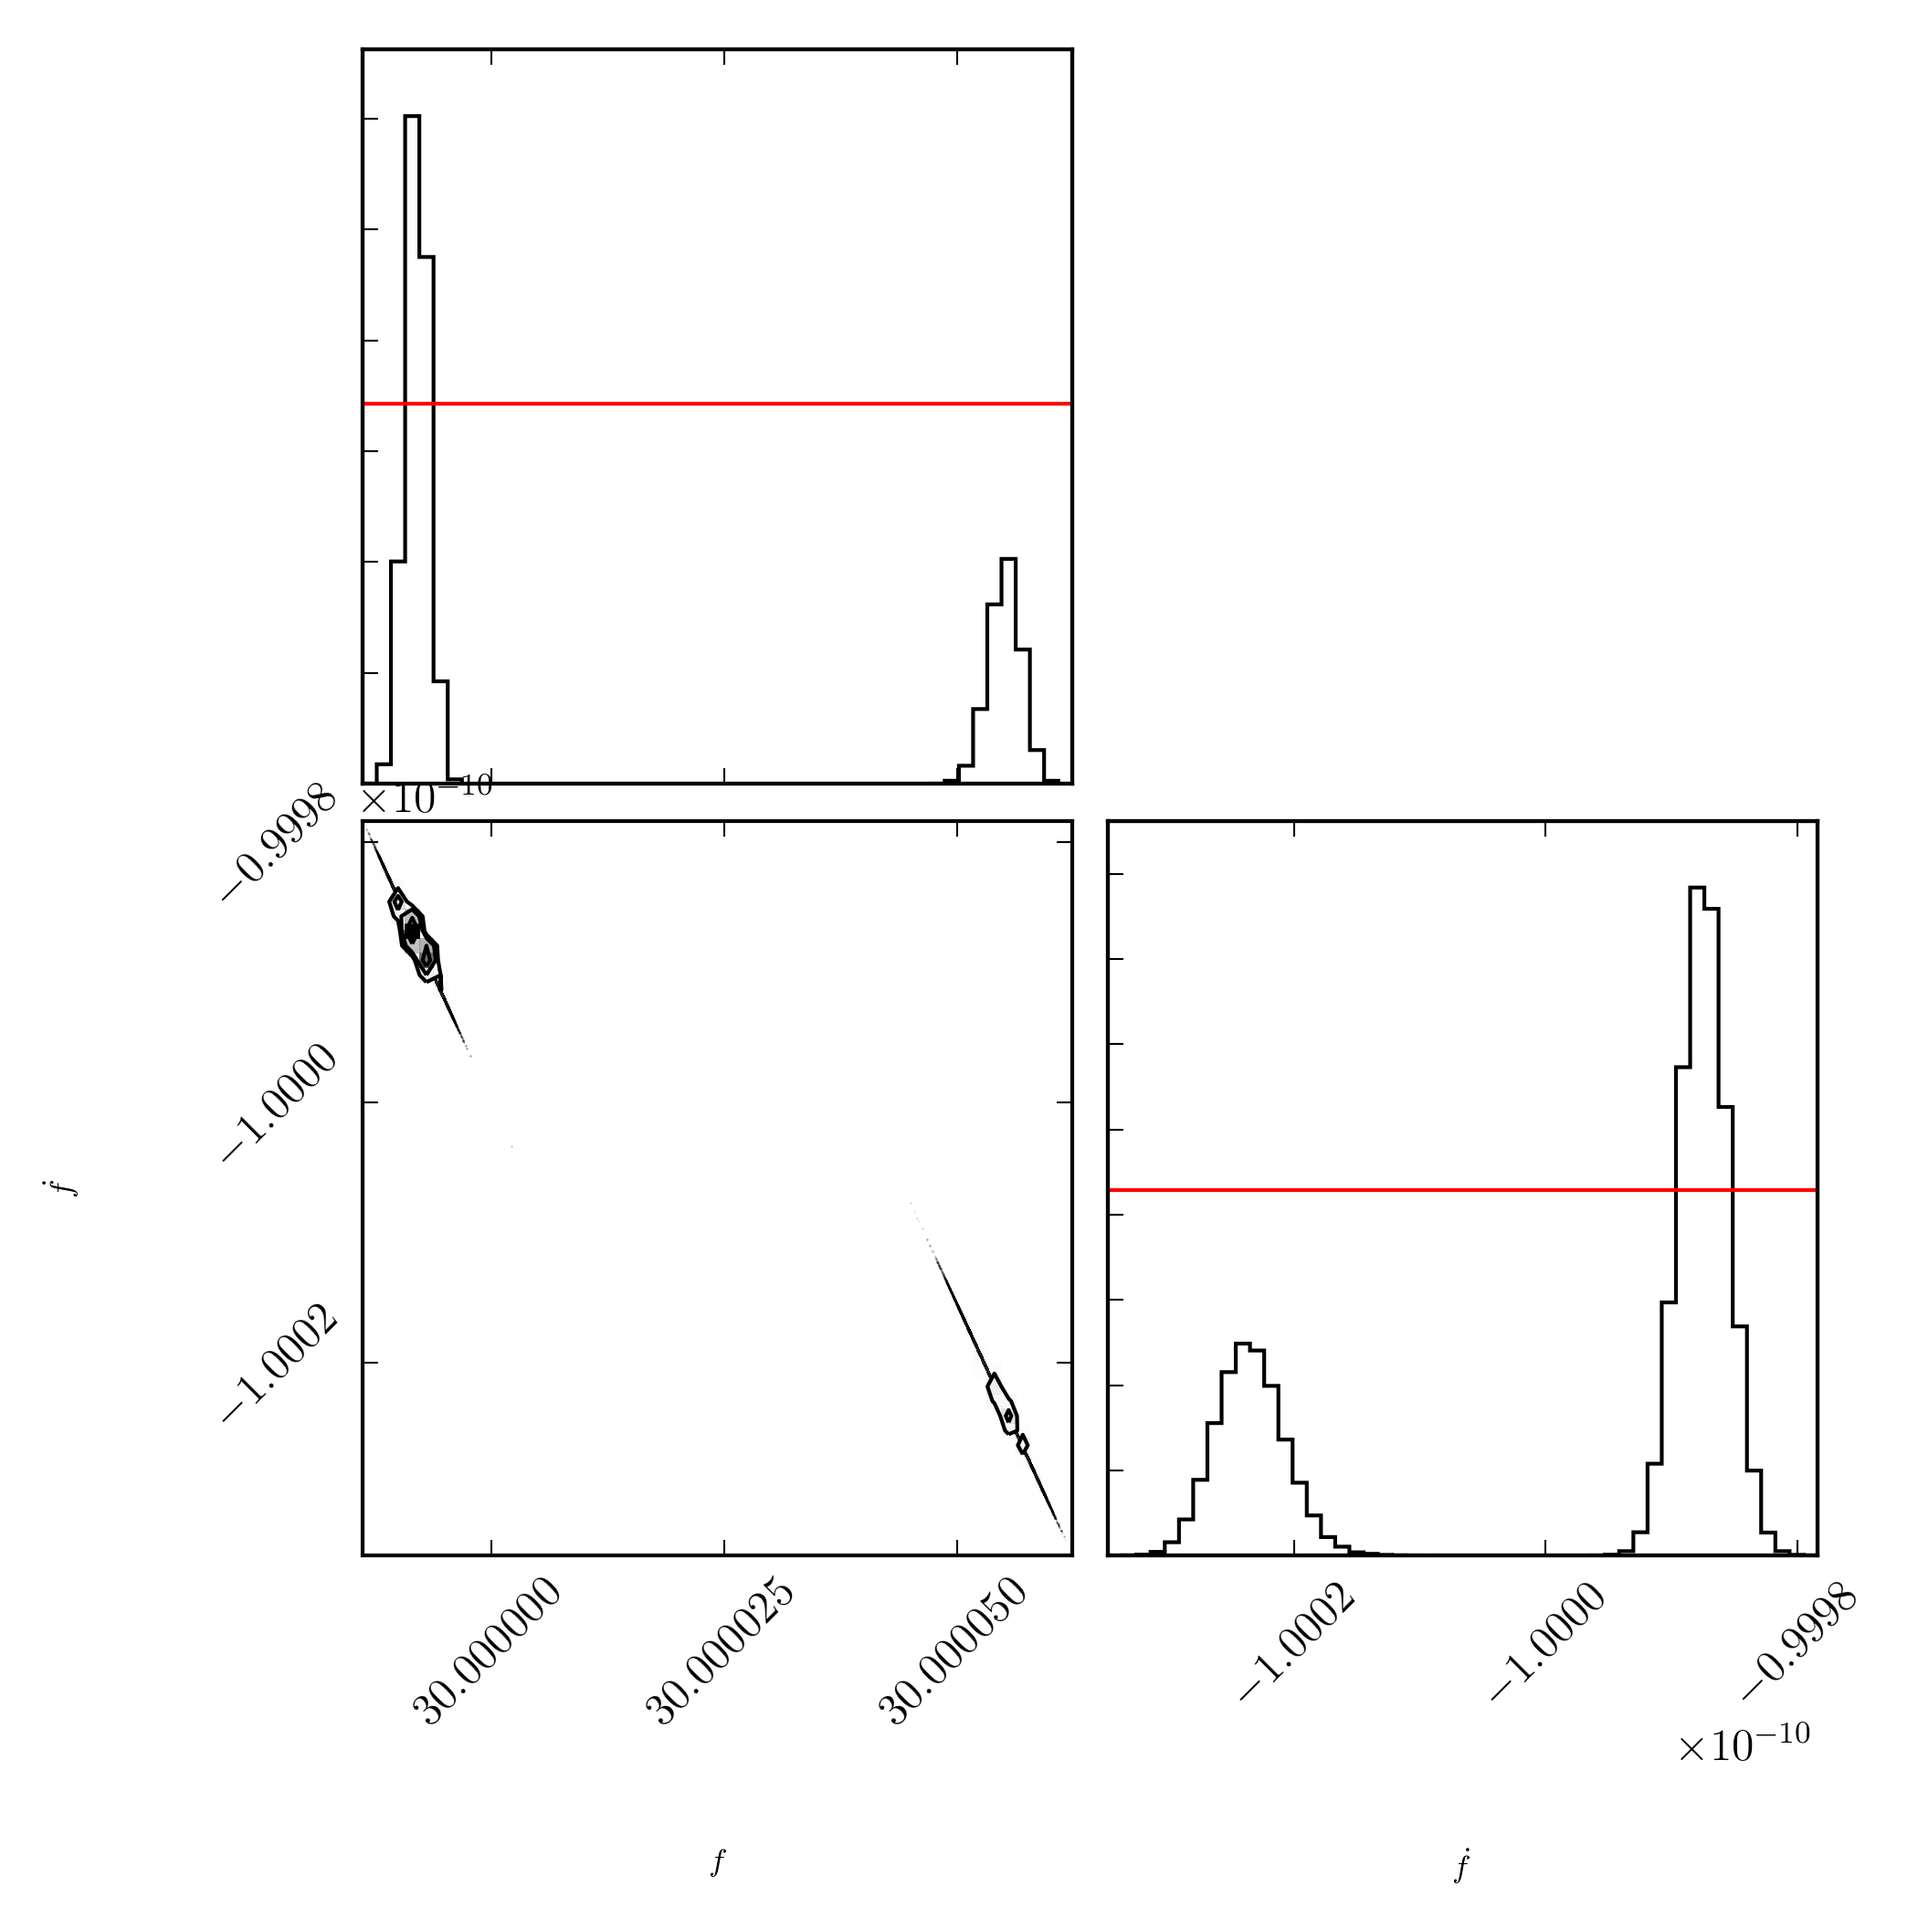
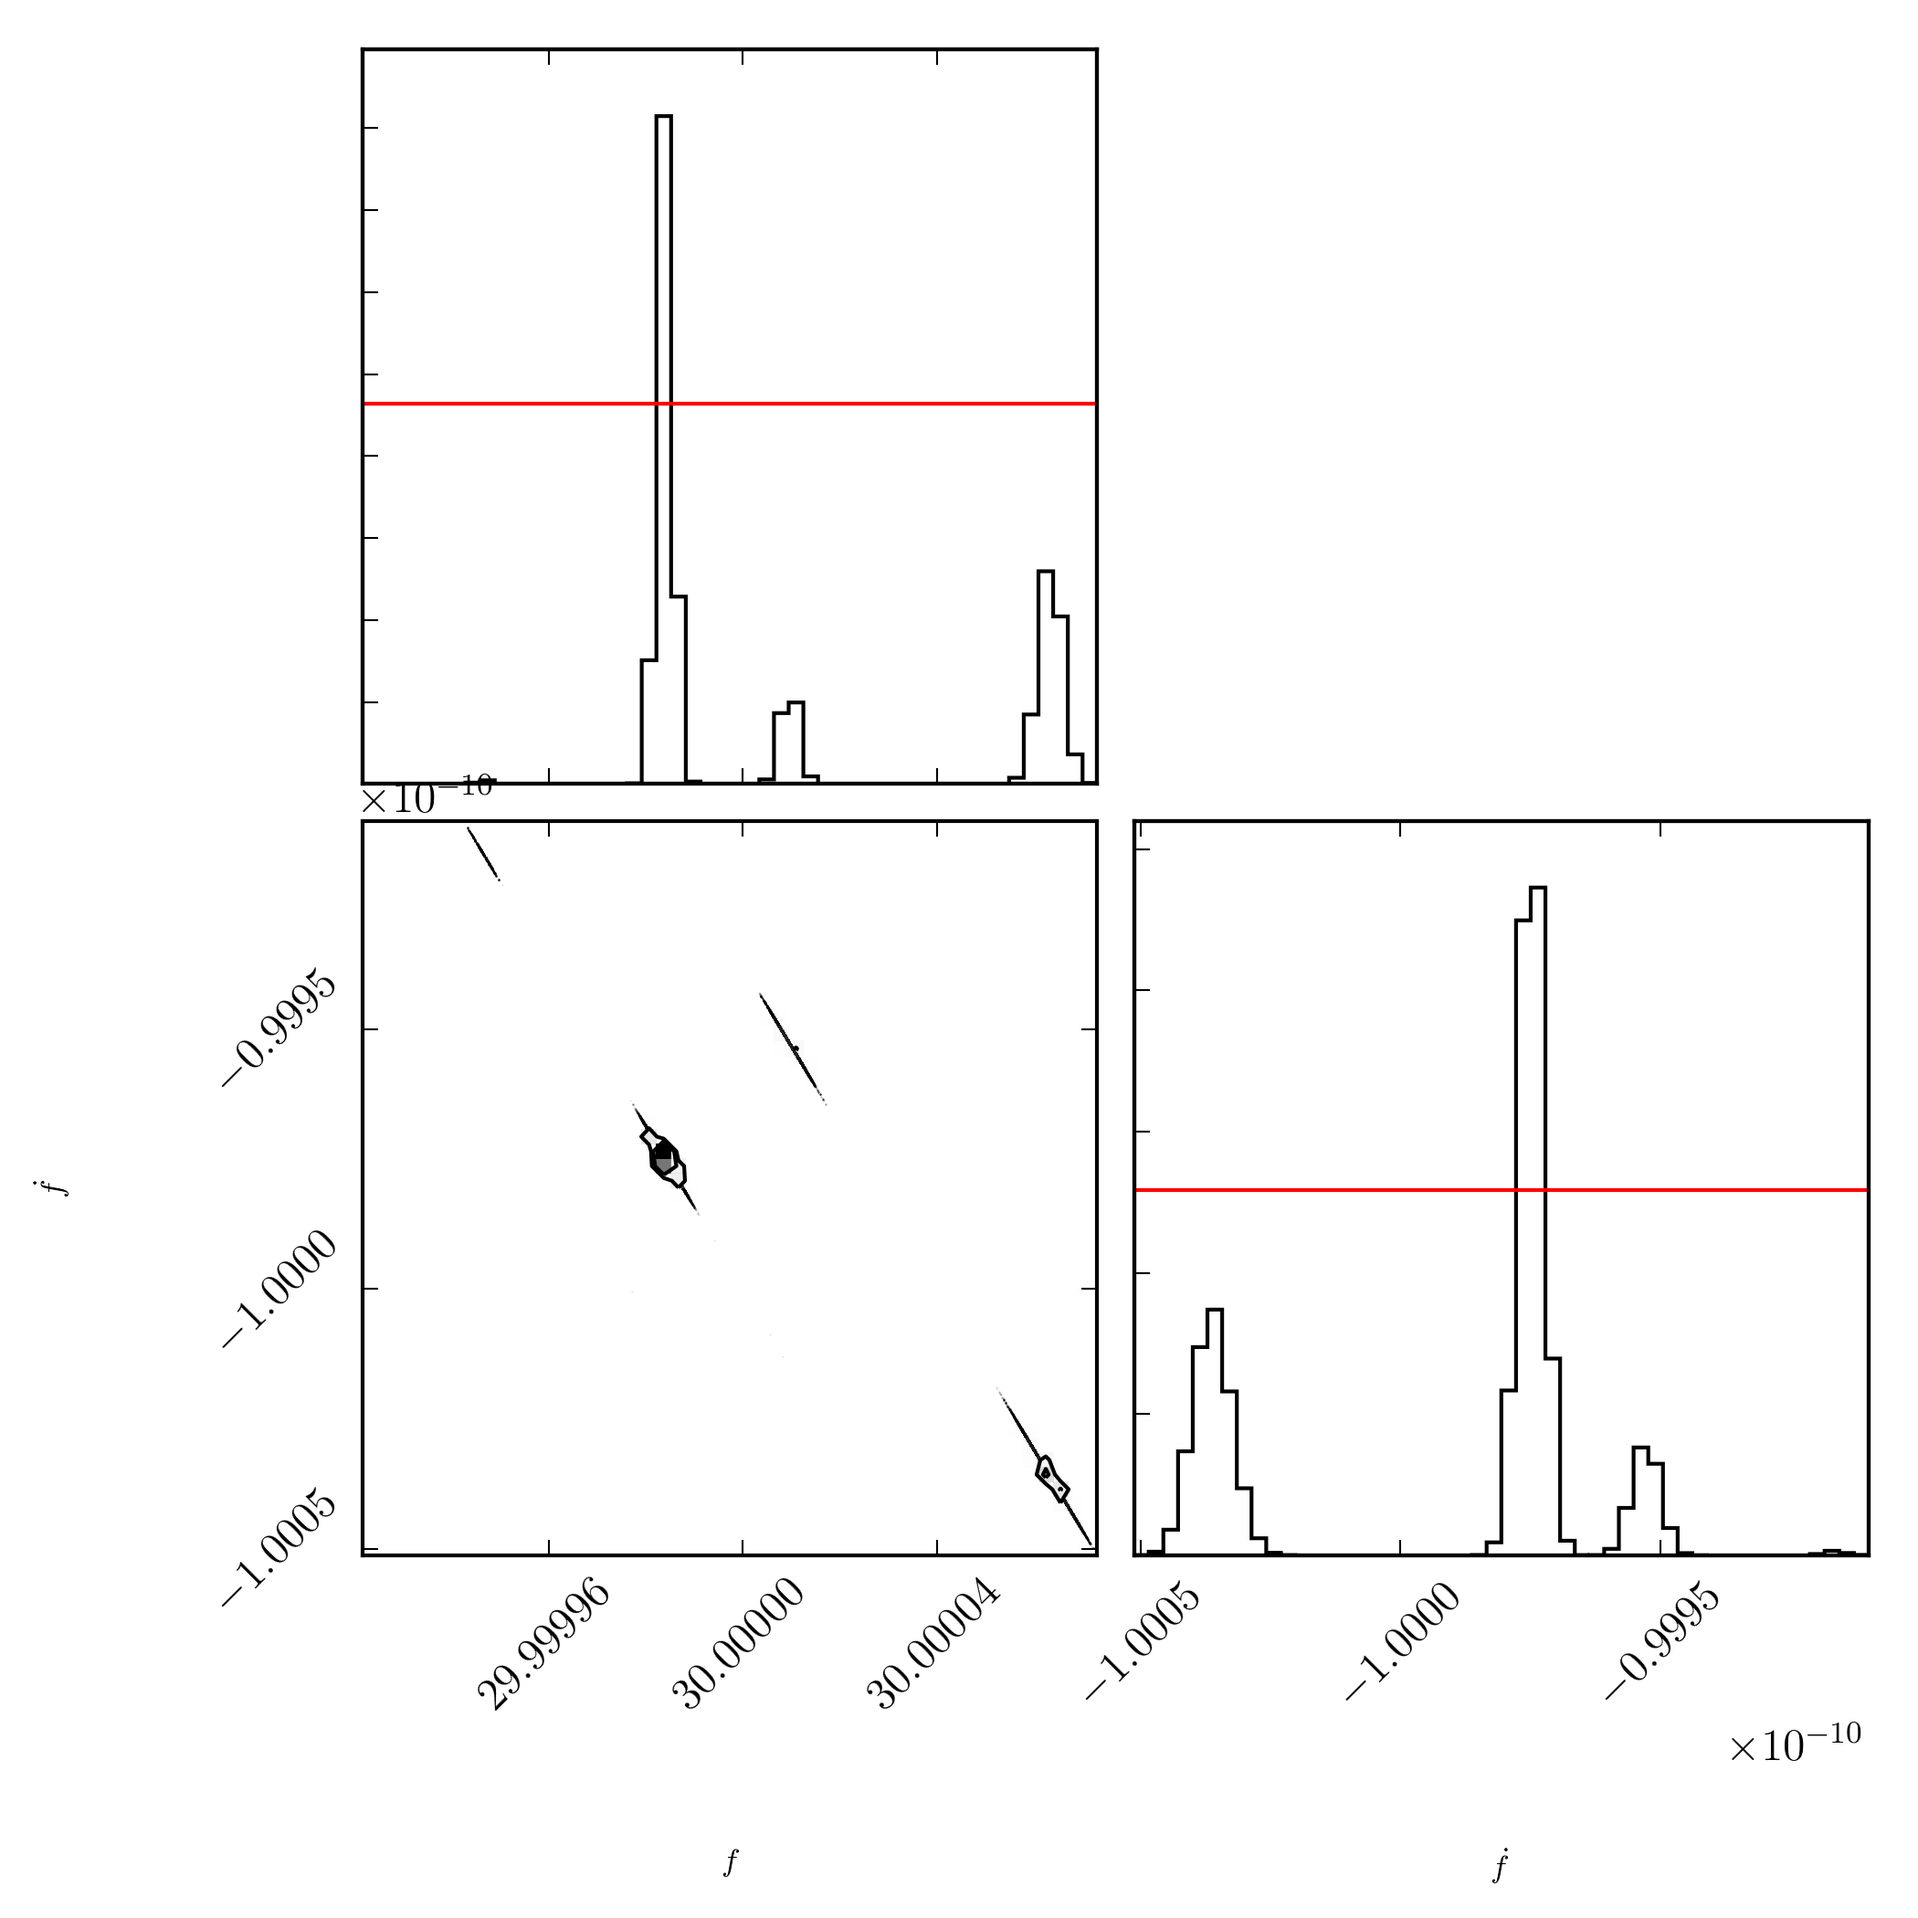
Initial commit adding documentation for semi-coherent glitch search

diff --git a/examples/semi_coherent_twoglitch_search.py b/examples/semi_coherent_twoglitch_search.py
@@ -16,9 +16,12 @@ theta_prior = {'F0': {'type': 'norm', 'loc': F0, 'scale': abs(1e-6*F0)},
                'F2': F2,
                'Alpha': Alpha,
                'Delta': Delta,
-               'delta_F0': {'type': 'halfnorm', 'loc': 0,
-                            'scale': 1e-7*F0},
-               'delta_F1': 0,
+               'delta_F0_0': {'type': 'halfnorm', 'loc': 0,
+                              'scale': 1e-7*F0},
+               'delta_F0_1': {'type': 'halfnorm', 'loc': 0,
+                              'scale': 1e-7*F0},
+               'delta_F1_0': 0,
+               'delta_F1_1': 0,
                'tglitch_0': {'type': 'unif',
                              'lower': tstart+0.01*duration,
                              'upper': tstart+0.5*duration},
@@ -27,8 +30,8 @@ theta_prior = {'F0': {'type': 'norm', 'loc': F0, 'scale': abs(1e-6*F0)},
                              'upper': tstart+0.99*duration},
                }
 
-nwalkers = 50
-nsteps = [500, 500, 500]
+nwalkers = 100
+nsteps = [1000, 1000, 5000]
 
 mcmc = pyfstat.MCMCGlitchSearch(
     'semi_coherent_twoglitch_search', 'data', sftfilepath='data/*twoglitch*sft',

diff --git a/examples/semi_coherent_glitch_search_using_MCMC.py b/examples/semi_coherent_glitch_search_using_MCMC.py
@@ -24,13 +24,17 @@ theta_prior = {'F0': {'type': 'norm', 'loc': F0, 'scale': abs(1e-6*F0)},
                            'upper': tstart+0.9*duration},
                }
 
-nwalkers = 500
-nsteps = [1000, 1000, 1000]
+ntemps = 4
+log10temperature_min = -1
+nwalkers = 100
+nsteps = [5000, 1000, 1000]
 
 mcmc = pyfstat.MCMCGlitchSearch(
-    'semi_coherent_glitch_search', 'data', sftfilepath='data/*_glitch*sft',
-    theta_prior=theta_prior, tref=tref, tstart=tstart, tend=tend,
-    nsteps=nsteps, nwalkers=nwalkers, scatter_val=1e-10, nglitch=1)
+    'semi_coherent_glitch_search_using_MCMC', 'data',
+    sftfilepath='data/*_glitch*sft', theta_prior=theta_prior, tref=tref,
+    tstart=tstart, tend=tend, nsteps=nsteps, nwalkers=nwalkers,
+    scatter_val=1e-10, nglitch=1, ntemps=ntemps,
+    log10temperature_min=log10temperature_min)
 
 mcmc.run()
 mcmc.plot_corner(add_prior=True)

diff --git a/examples/make_fake_data.py b/examples/make_fake_data.py
@@ -36,7 +36,7 @@ delta_F1 = 0
 glitch_data = Writer(
     label='glitch', outdir='data', tref=tref, tstart=tstart, F0=F0, F1=F1,
     F2=F2, duration=duration, Alpha=Alpha, Delta=Delta, h0=h0, sqrtSX=sqrtSX,
-    dtglitch=dtglitch, delta_F0=delta_F0, delta_F1=delta_F1, detector='L1')
+    dtglitch=dtglitch, delta_F0=delta_F0, delta_F1=delta_F1)
 glitch_data.make_data()
 
 # Making data with two glitches

diff --git a/docs/semi_coherent_glitch_search_using_MCMC_on_glitching_data.md b/docs/semi_coherent_glitch_search_using_MCMC_on_glitching_data.md
@@ -1,0 +1,59 @@
+# Semi-coherent glitch search on data with a single glitch using MCMC
+
+In this example, based on [this
+script](../examples/semi_coherent_glitch_search_using_MCMC.py), we show the
+basic setup for a single-glitch search. We begin, in the usual way, with
+defining some the prior
+
+```python
+import pyfstat
+
+F0 = 30.0
+F1 = -1e-10
+F2 = 0
+Alpha = 5e-3
+Delta = 6e-2
+tref = 362750407.0
+
+tstart = 1000000000
+duration = 100*86400
+tend = tstart + duration
+
+theta_prior = {'F0': {'type': 'norm', 'loc': F0, 'scale': abs(1e-6*F0)},
+               'F1': {'type': 'norm', 'loc': F1, 'scale': abs(1e-6*F1)},
+               'F2': F2,
+               'Alpha': Alpha,
+               'Delta': Delta,
+               'delta_F0': {'type': 'halfnorm', 'loc': 0,
+                            'scale': 1e-5*F0},
+               'delta_F1': 0,
+               'tglitch': {'type': 'unif',
+                           'lower': tstart+0.1*duration,
+                           'upper': tstart+0.9*duration},
+               }
+```
+
+For simplicity, we have chosen a prior based on the known inputs. The important
+steps here are the definition of `delta_F0`, `delta_F1` and `tglitch`, the
+prior densities for the glitch-parameters. We then use a parallel-tempered
+set-up, in addition to an initialisation step and run the search:
+```python
+ntemps = 4
+log10temperature_min = -1
+nwalkers = 100
+nsteps = [5000, 1000, 1000]
+
+mcmc = pyfstat.MCMCGlitchSearch(
+    'semi_coherent_glitch_search_using_MCMC', 'data',
+    sftfilepath='data/*_glitch*sft', theta_prior=theta_prior, tref=tref,
+    tstart=tstart, tend=tend, nsteps=nsteps, nwalkers=nwalkers,
+    scatter_val=1e-10, nglitch=1, ntemps=ntemps,
+    log10temperature_min=log10temperature_min)
+
+mcmc.run()
+mcmc.plot_corner(add_prior=True)
+mcmc.print_summary()
+```
+
+The posterior for this search demonstrates that we recover the input parameters:
+![](img/semi_coherent_search_using_MCMC_corner.png)

diff --git a/docs/fully_coherent_search_using_MCMC_on_glitching_data.md b/docs/fully_coherent_search_using_MCMC_on_glitching_data.md
@@ -54,8 +54,8 @@ Running this example, we obtain traces of the walkers like this:
 ![](img/fully_coherent_search_using_MCMC_on_glitching_data_walkers.png)
 
 Although it is not obvious at first, the large widths of these traces in fact
-show that the walkers are jumping between two bimodal peaks (for both `F0` and
-`F1): this is possible due to the tuning of the parallel tempering. To see this
+show that the walkers are jumping between multiple peaks (for both `F0` and
+`F1): this is possible, due to the tuning of the parallel tempering. To see this
 clearly, we also plot the corner plot:
 ![](img/fully_coherent_search_using_MCMC_on_glitching_data_corner.png)
 
@@ -71,7 +71,7 @@ see bimodality in `F1`, which did does not change during the glitch.
 
 ```
 >>> mcmc.print_summary()
-Max twoF: 1354.7
+Max twoF: 422.97
 ```
 That is, compared to the basic search (on a smooth signal) which had a twoF of
 `~1764` (in agreement with the predicted twoF), we have lost a large

diff --git a/docs/semi_coherent_glitch_search_with_two_glitches_using_MCMC_on_glitching_data.md b/docs/semi_coherent_glitch_search_with_two_glitches_using_MCMC_on_glitching_data.md
@@ -1,0 +1,4 @@
+# Semi-coherent glitch search on data with two-glitches using MCMC
+
+![](img/semi_coherent_twoglitch_search_walkers.png)
+![](img/semi_coherent_twoglitch_search_corner.png)
